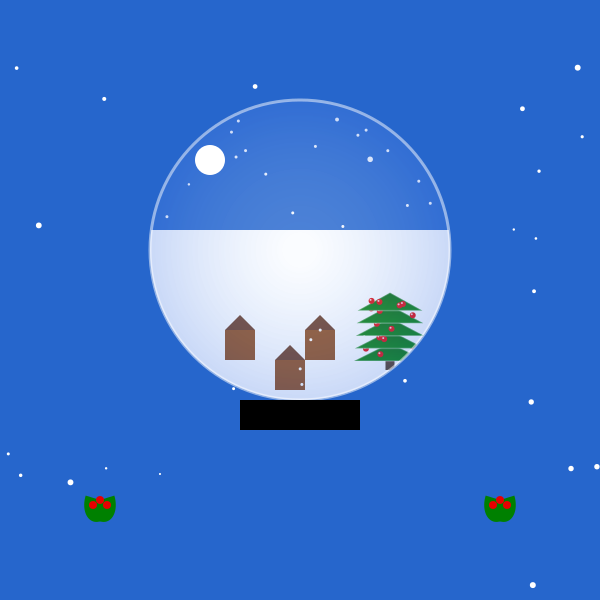
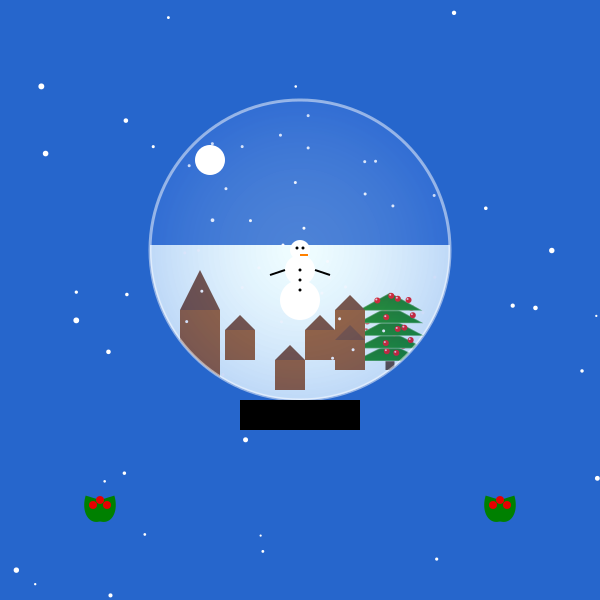
added a snow man

diff --git a/main.py b/main.py
@@ -100,6 +100,41 @@ def draw_snow_globe(ctx, x, y, radius):
     ctx.set_source_rgb(1, 1, 1)
     ctx.fill()
 
+#draw a snowman
+def draw_snowman(ctx, x, y):
+    # Body
+    draw_circle(ctx, x, y, 20, (1, 1, 1))  # Bottom circle
+    draw_circle(ctx, x, y - 30, 15, (1, 1, 1))  # Middle circle
+    draw_circle(ctx, x, y - 50, 10, (1, 1, 1))  # Head
+
+    # Eyes
+    draw_circle(ctx, x - 3, y - 52, 1.5, (0, 0, 0))  # Left eye
+    draw_circle(ctx, x + 3, y - 52, 1.5, (0, 0, 0))  # Right eye
+
+    # Nose
+    ctx.move_to(x, y - 45)
+    ctx.line_to(x + 8, y - 45)
+    ctx.set_source_rgb(1, 0.5, 0)  # Orange for carrot nose
+    ctx.set_line_width(2)
+    ctx.stroke()
+
+    # Buttons on the chest
+    button_y_positions = [y - 30, y - 20, y - 10]  # Vertical positions for buttons
+    for pos in button_y_positions:
+        draw_circle(ctx, x, pos, 1.5, (0, 0, 0))  # Draw buttons
+
+    # Arms (lines extending from the middle circle)
+    ctx.set_line_width(2)
+    # Left arm
+    ctx.move_to(x - 15, y - 30)  # Starting point of left arm
+    ctx.line_to(x - 30, y - 25)  # Ending point of left arm
+    ctx.stroke()
+
+    # Right arm
+    ctx.move_to(x + 15, y - 30)  # Starting point of right arm
+    ctx.line_to(x + 30, y - 25)  # Ending point of right arm
+    ctx.stroke()
+
 
 def draw_holly(ctx, x, y):
     for angle in [-0.3, 0.3]:
@@ -130,16 +165,19 @@ def draw_scene():
     context.arc(globe_x, globe_y, globe_radius, 0, 2 * math.pi)
     context.clip()
 
-    context.rectangle(globe_x - globe_radius, globe_y - 20, globe_radius * 2, globe_radius * 1.5)
-    context.set_source_rgb(1, 1, 1)
+    context.rectangle(globe_x - globe_radius, globe_y - 5, globe_radius * 2, globe_radius * 1.5)
+    context.set_source_rgb(0.941, 1.0, 1.0)
     context.fill()
 
     draw_realistic_tree(context, globe_x + 90, globe_y + 120, 90)
 
-    # Draw three houses with brown color and different positions
+    # Draw  houses with brown color and different positions
     draw_house(context, globe_x - 60, globe_y + 80, 30, 30)
     draw_house(context, globe_x + 20, globe_y + 80, 30, 30)
+    draw_house(context, globe_x +50, globe_y +60, 30, 30)
     draw_house(context, globe_x - 10, globe_y + 110, 30, 30)
+    draw_house(context, globe_x + 50, globe_y + 90, 30, 30)
+    draw_house(context, globe_x - 100, globe_y + 60, 40, 80)
 
     for _ in range(40):
         x = random.uniform(globe_x - globe_radius * 0.9, globe_x + globe_radius * 0.9)
@@ -149,6 +187,9 @@ def draw_scene():
     context.restore()
 
     draw_snow_globe(context, globe_x, globe_y, globe_radius)
+    draw_snowman(context, WIDTH // 2, 300)
+    #draw_snowman(context, WIDTH // 2, 250)
+
 
     context.rectangle(globe_x - globe_radius * 0.4, globe_y + globe_radius, globe_radius * 0.8, 30)
     context.set_source_rgb(0, 0, 0)
